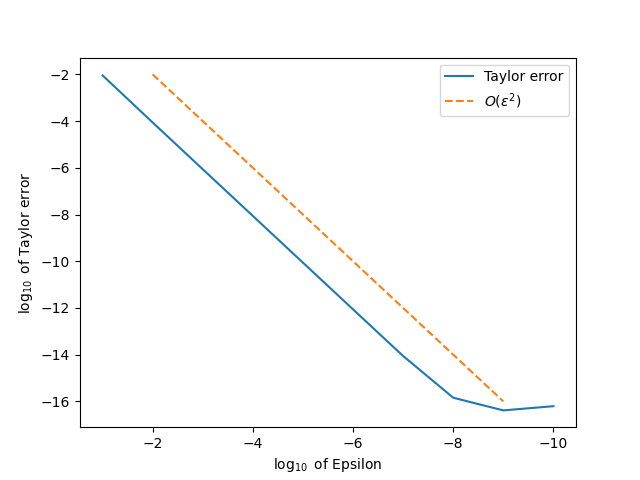
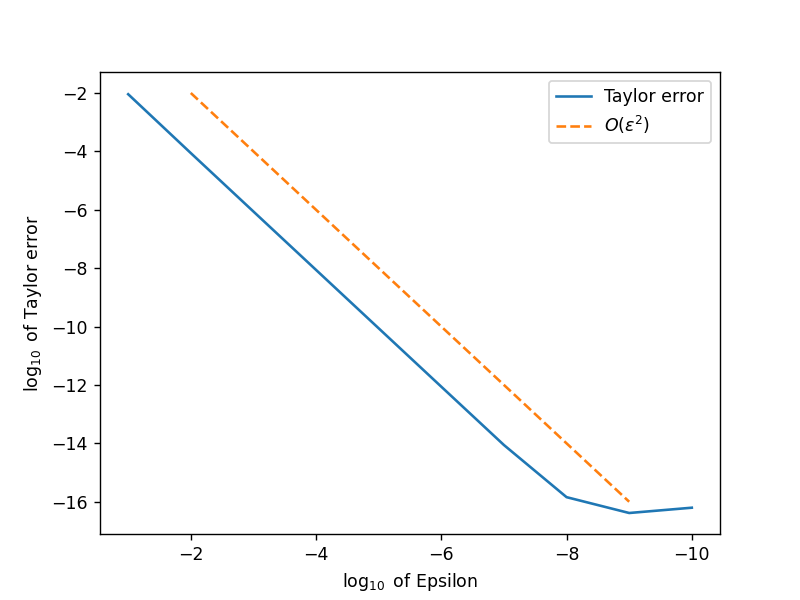
what

diff --git a/demonstration/taylor_error.py b/demonstration/taylor_error.py
@@ -19,9 +19,8 @@ def taylor_error(expr, condition, eps, **kwargs):
     condition_new[kwargs['var']] = condition_new[kwargs['var']] + (eps * vec)
     evalpostvisitor(expr, symbol_map=condition_new)
     Jdeltax = np.array(expr.storedvalue)
-    dJx = np.array(reversemodeAD(expr, condition)[kwargs['var']])
+    dJx = np.dot(np.array(reversemodeAD(expr, condition)[kwargs['var']]), vec)
     # Using taylor series expansion find O(eps^2)
-    print(Jdeltax - Jx)
     return np.abs(Jdeltax - Jx - dJx*eps)
 
 
@@ -36,6 +35,7 @@ def taylor_error_plot(expr, condition, eps, **kwargs):
     plt.xlabel(f"$\log_{{10}}$ of Epsilon")
     plt.ylabel(f"$\log_{{10}}$ of Taylor error")
     plt.legend()
+    plt.show()
     return fig
 
 
@@ -46,7 +46,7 @@ def convergence_table(expr, condition, eps, **kwargs):
     result = np.array(result)
     result_dif = result[1:]/result[:-1]
     eps_dif = np.array(eps)[1:]/np.array(eps)[:-1]
-    grads = np.log(abs(result_dif))/np.log(abs(eps_dif))
+    grads = np.log(abs(result_dif))/np.log(abs(eps_dif))[:,None]
     points = [f"{i+1}-{i+2}" for i in range(len(eps)-1)]
     d = dict(zip(points, grads))
     f = open("images\\rate_of_convergence.txt", 'w')
